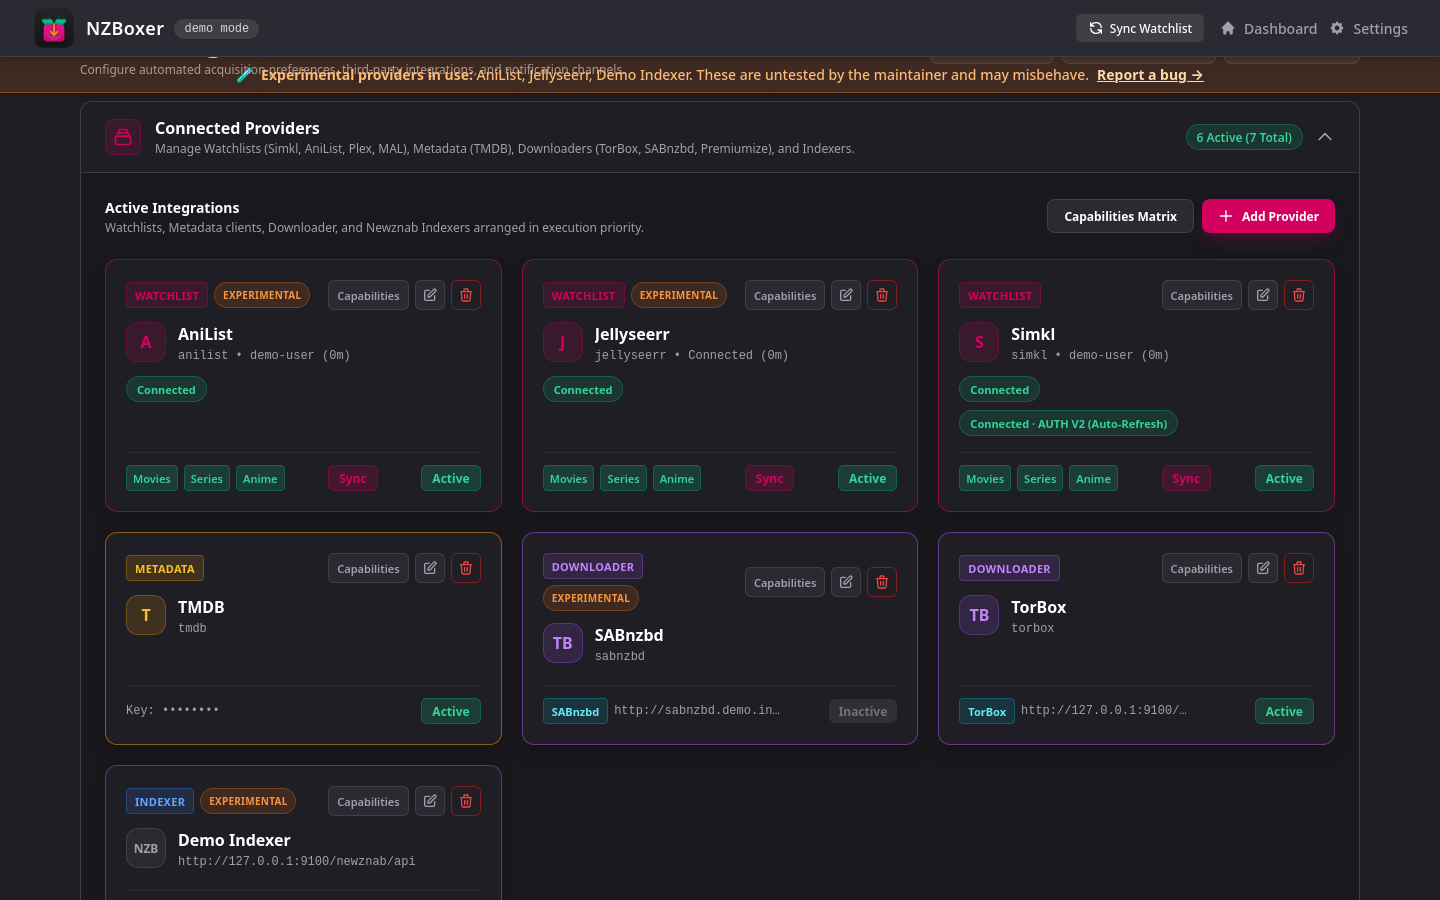
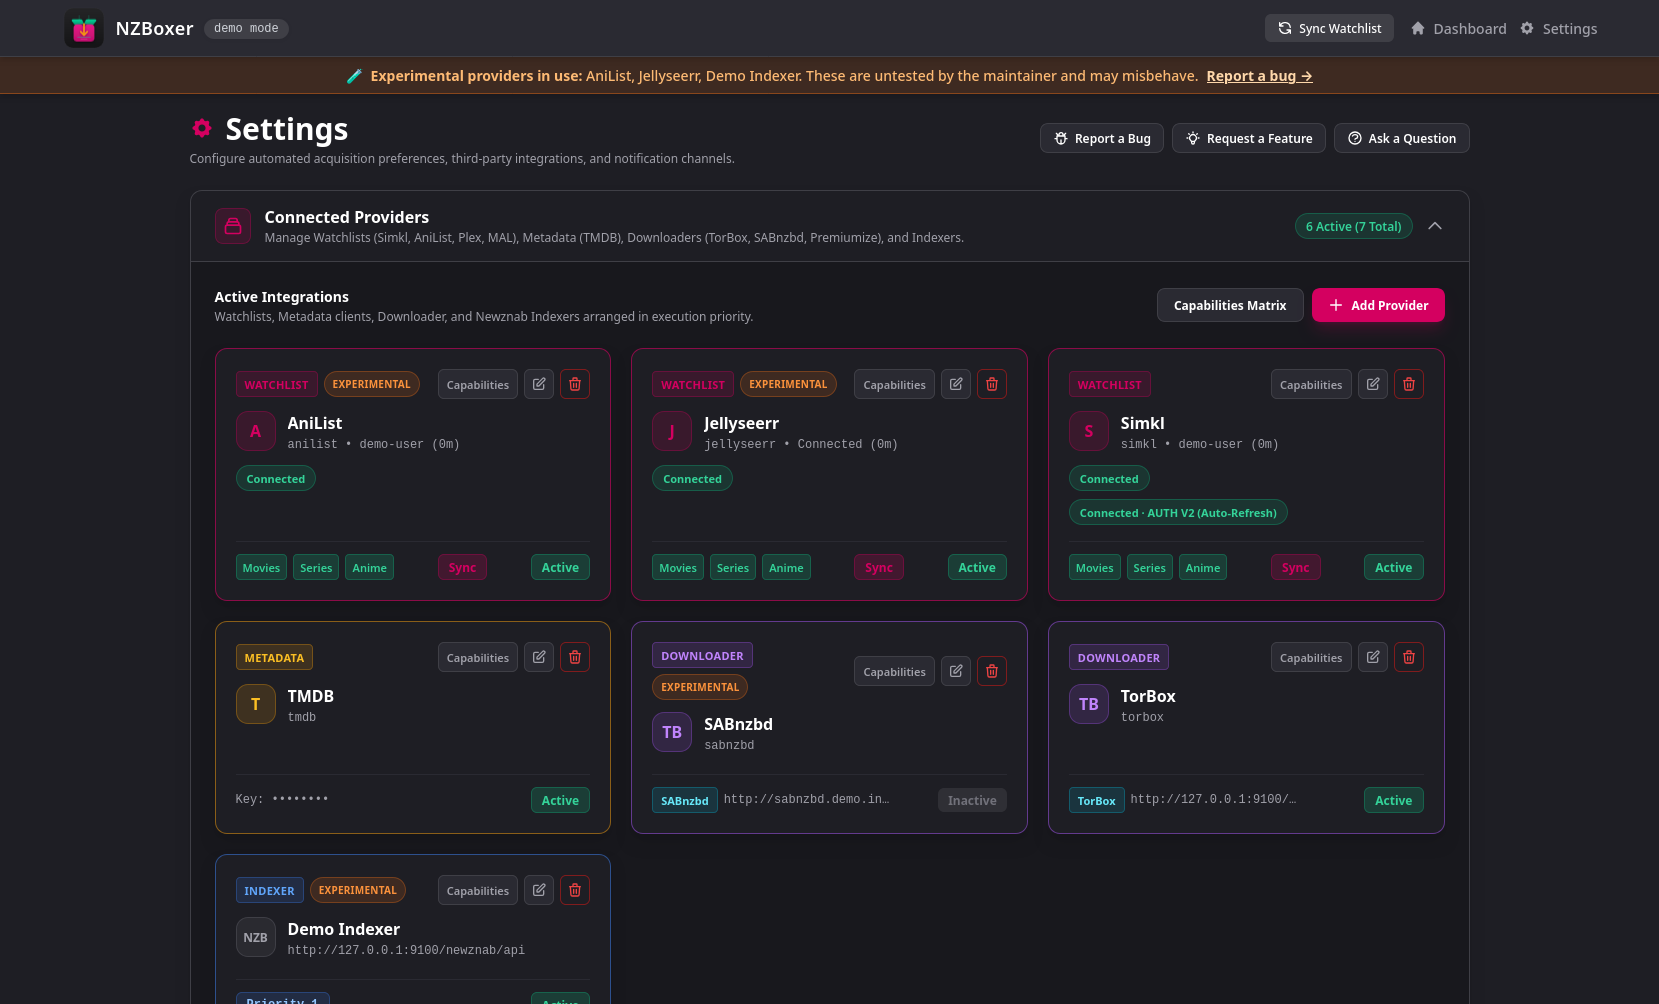
docs: retake ad-hoc search and providers screenshots

diff --git a/README.md b/README.md
@@ -63,7 +63,7 @@ It keeps your **Movies**, **TV Series** and **Anime** in sync with your watchlis
 
 <p align="center">
   <img src="screenshots/ad-hoc-search.png" alt="Ad-hoc search" width="800" /><br />
-  <sub><b>Ad-hoc search:</b> filters, season and episode drill-down and one-click search for any title outside your watchlist</sub>
+  <sub><b>Ad-hoc search:</b> filters, scored releases and one-click Auto-Push Best for any title outside your watchlist</sub>
 </p>
 
 <p align="center">
